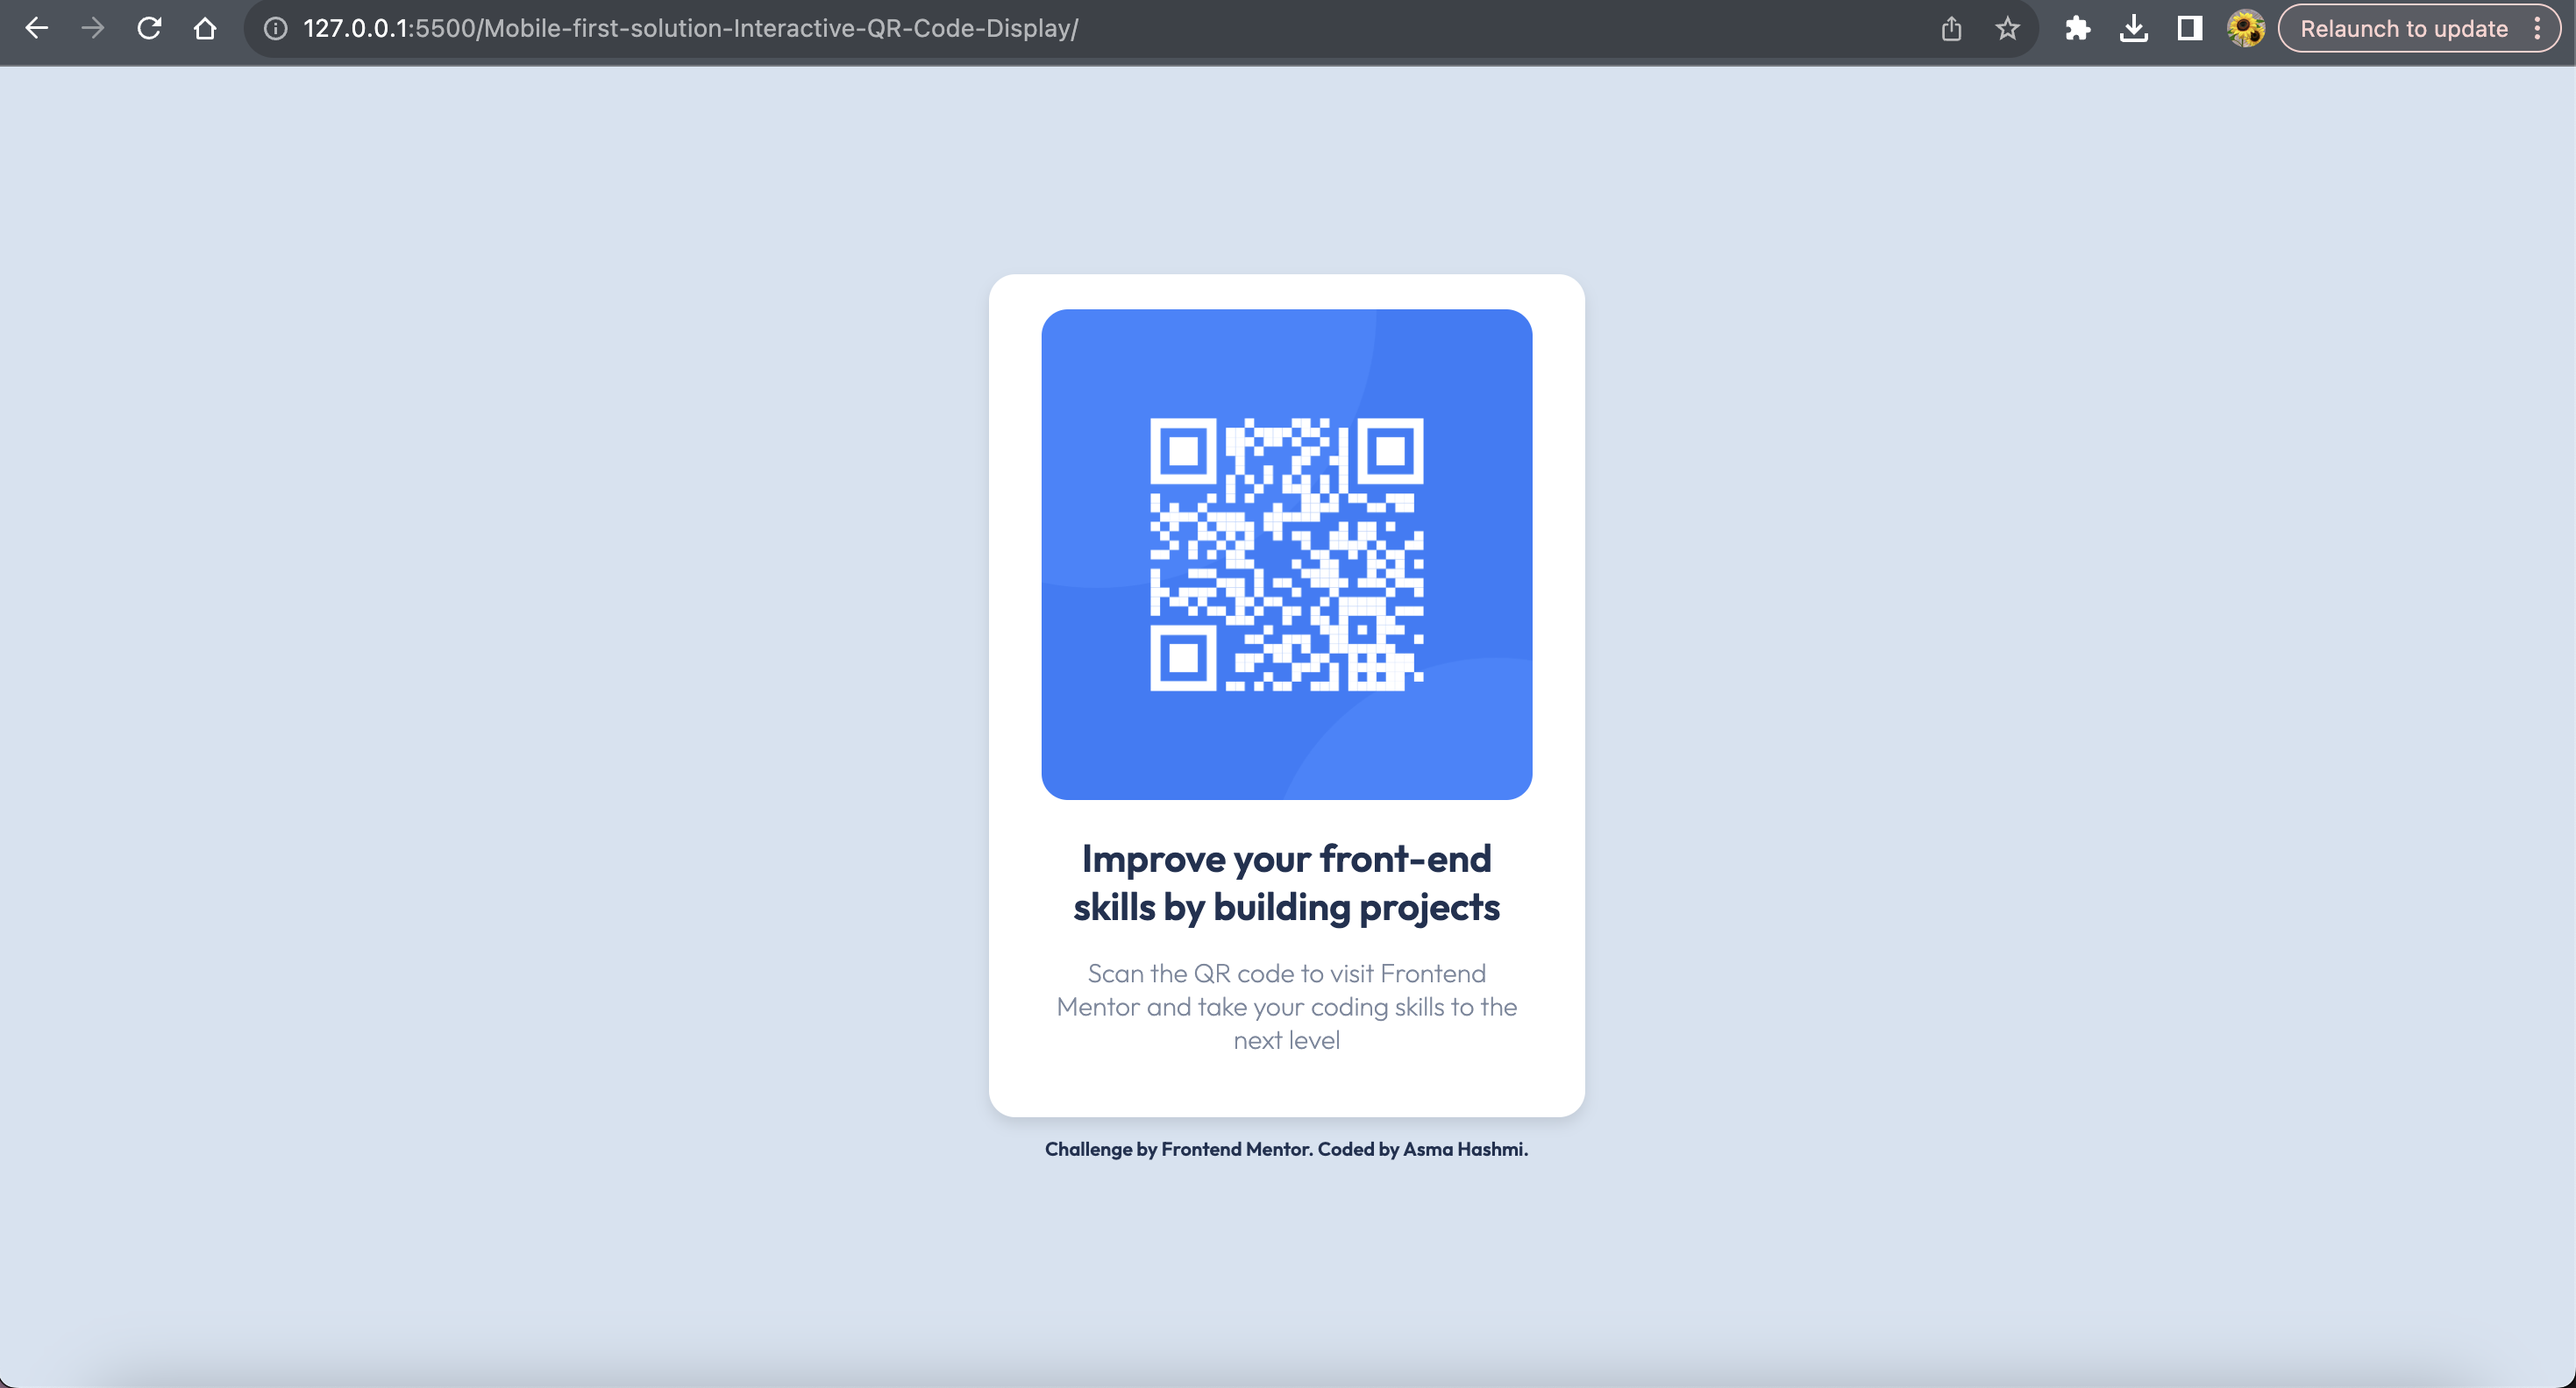
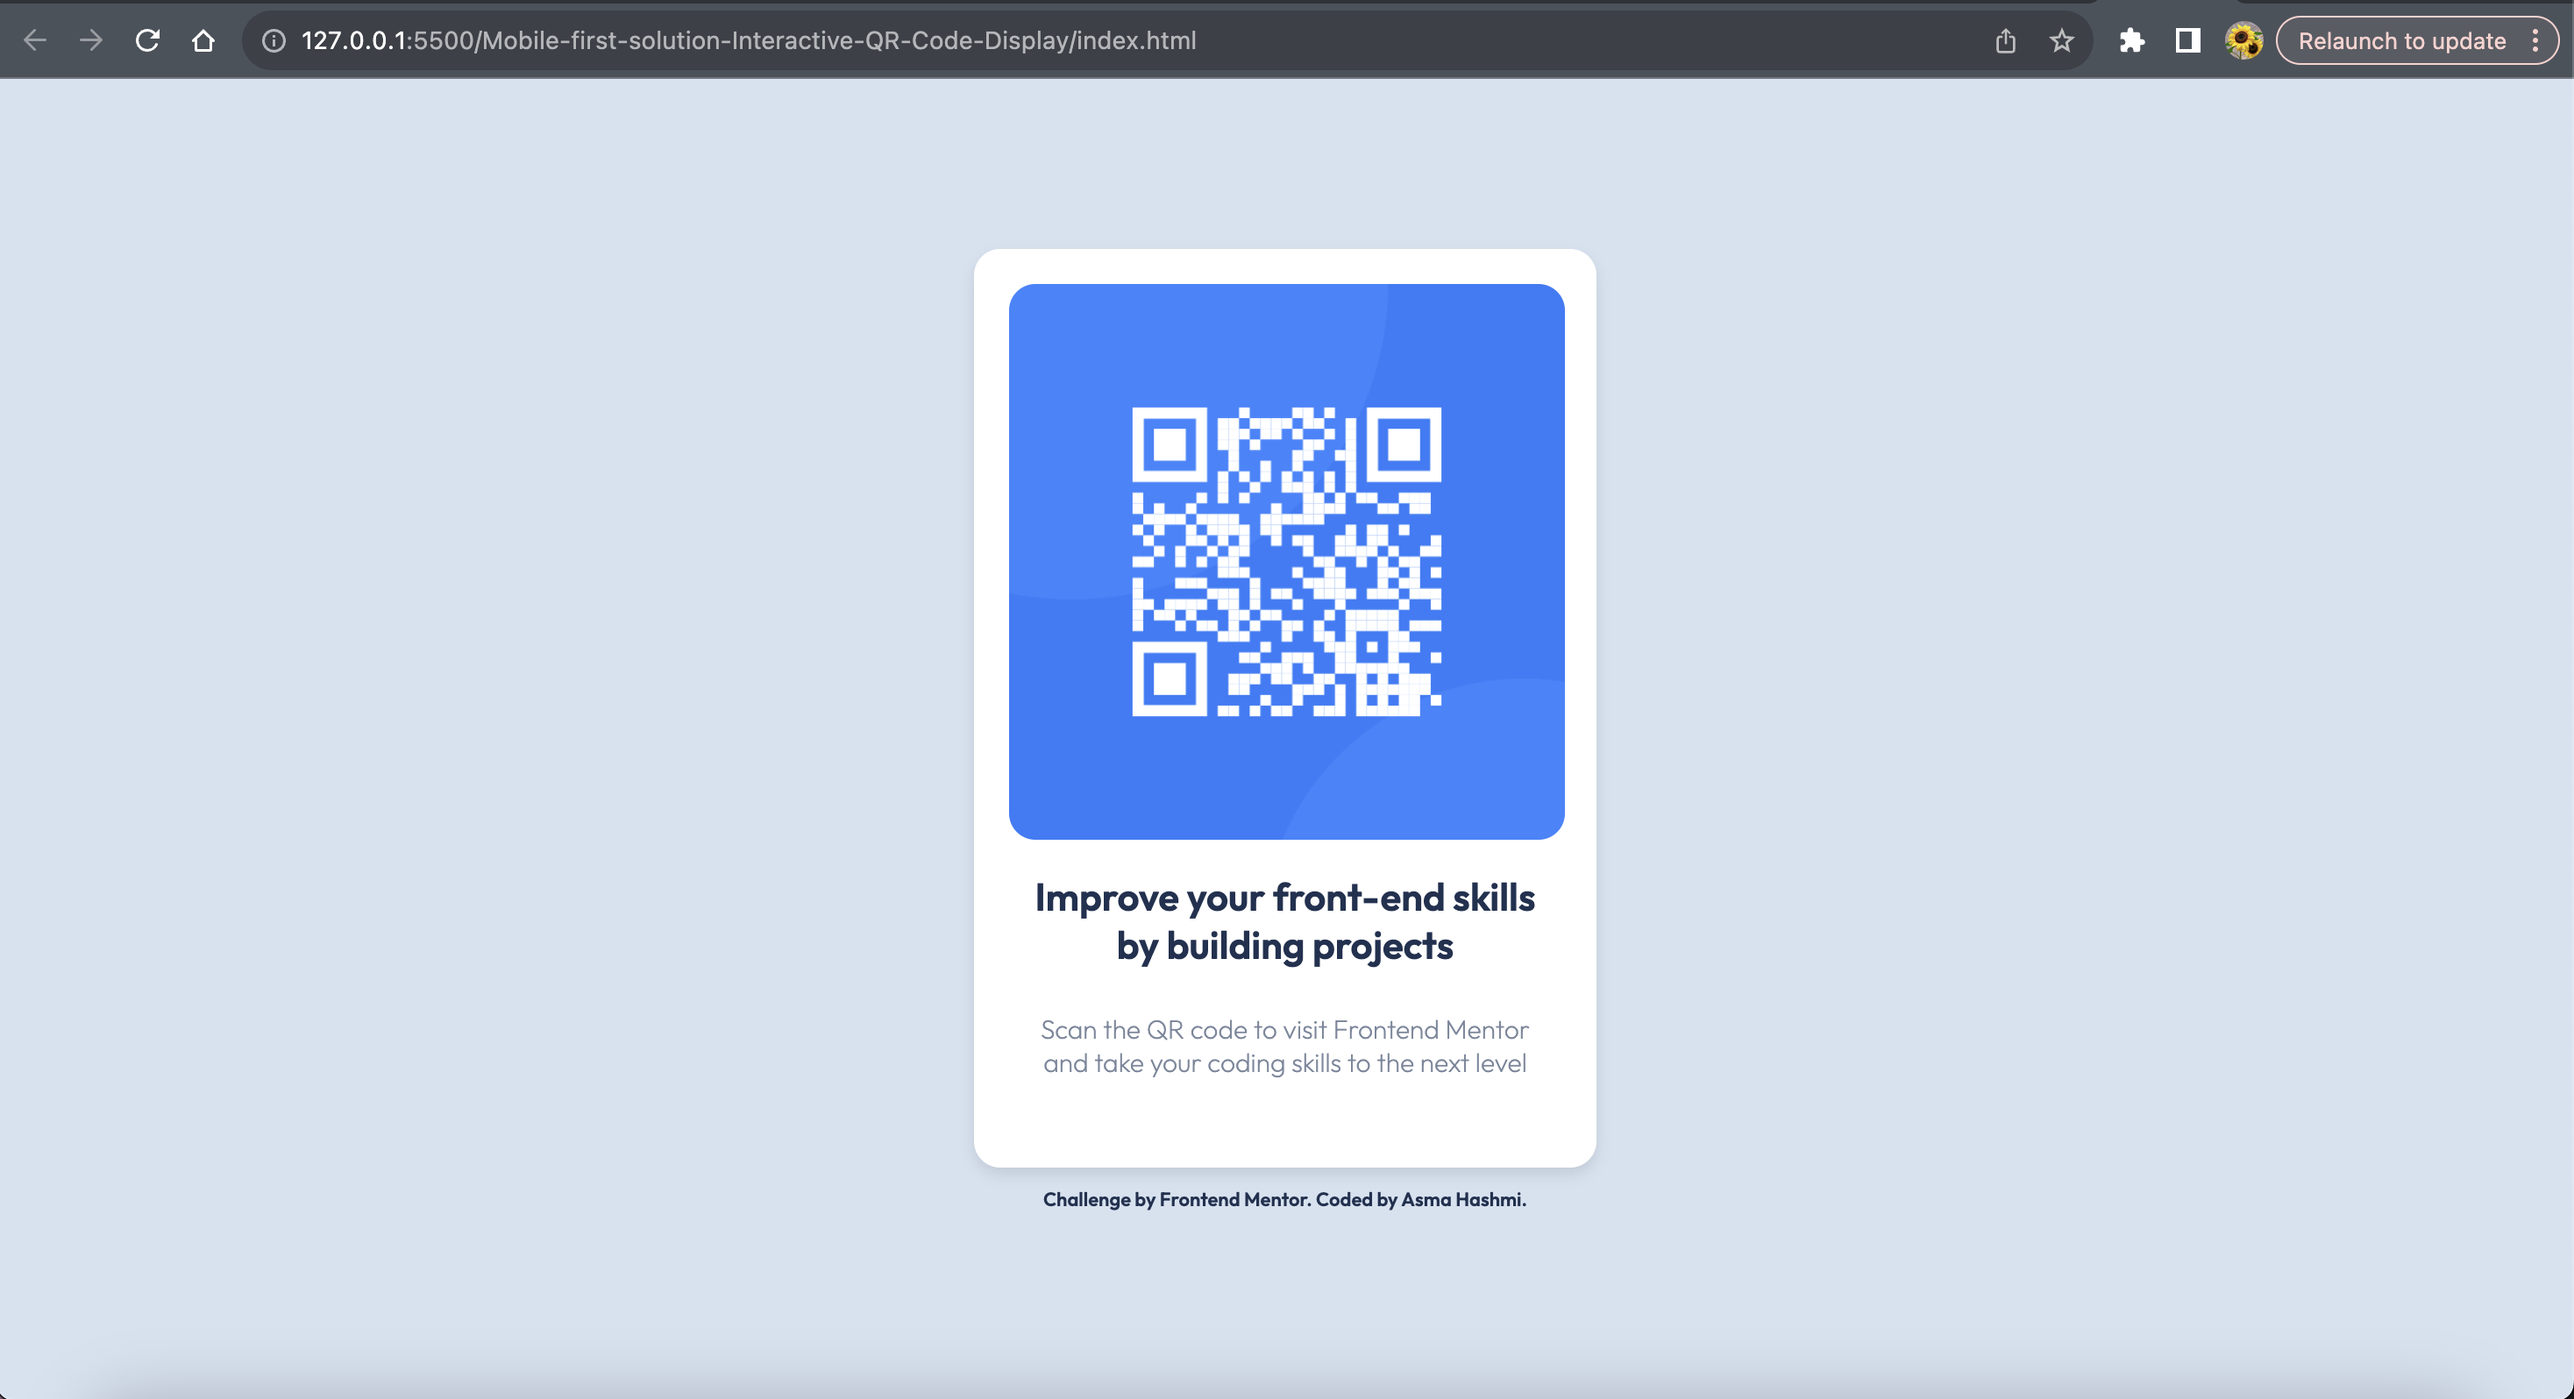
Modifying CSS for Card

diff --git a/index.html b/index.html
@@ -21,13 +21,14 @@
       box-shadow: 0 4px 8px rgba(0, 0, 0, 0.1);
       border-radius: 15px;
       padding: 20px;
-      width: 300px;
+      width: 315px;
+      height: 484px;
       text-align: center;
     }
     .card img {
       border-radius: 15px;
-      width: 280px;
-      height: 280px;
+      height: 317px;
+      position: relative;
     }
     .card h1 {
       font-size: 22px;
@@ -37,6 +38,7 @@
       font-weight: 600;
       padding-right: 10px;
       padding-left: 10px;
+      padding-bottom: 10px;
     }
     .card p {
       font-family: outfit;

diff --git a/README.md b/README.md
@@ -1,87 +1,21 @@
-# Frontend Mentor - QR code component
+# Frontend Mentor - QR code component solution
 
-![Design preview for the QR code component coding challenge](./design/desktop-preview.jpg)
+This is a solution to the [QR code component challenge on Frontend Mentor](https://www.frontendmentor.io/challenges/qr-code-component-iux_sIO_H). Frontend Mentor challenges help you improve your coding skills by building realistic projects. 
 
-## Welcome! 👋
+### Screenshots
 
-Thanks for checking out this front-end coding challenge.
+![](./images/desktop.png)
+![](./images/mobile.png)
 
-[Frontend Mentor](https://www.frontendmentor.io) challenges help you improve your coding skills by building realistic projects.
+### Links
+- Live Site URL: [https://mobile-first-solution-interactive-qr-code-display-3cj5xs6dz.vercel.app/]
 
-**To do this challenge, you need a basic understanding of HTML and CSS.**
+### Built with
 
-## The challenge
+- Semantic HTML5 markup
+- CSS custom properties
+- Flexbox
+- CSS Grid
+- Mobile-first workflow
+- [Styled Components](https://styled-components.com/) - For styles
 
-Your challenge is to build out this QR code component and get it looking as close to the design as possible.
-
-You can use any tools you like to help you complete the challenge. So if you've got something you'd like to practice, feel free to give it a go.
-
-Want some support on the challenge? [Join our community](https://www.frontendmentor.io/community) and ask questions in the **#help** channel.
-
-## Where to find everything
-
-Your task is to build out the project to the designs inside the `/design` folder. You will find both a mobile and a desktop version of the design. 
-
-The designs are in JPG static format. Using JPGs will mean that you'll need to use your best judgment for styles such as `font-size`, `padding` and `margin`. 
-
-If you would like the design files (we provide Sketch & Figma versions) to inspect the design in more detail, you can [subscribe as a PRO member](https://www.frontendmentor.io/pro).
-
-You will find all the required assets in the `/images` folder. The assets are already optimized.
-
-There is also a `style-guide.md` file containing the information you'll need, such as color palette and fonts.
-
-## Building your project
-
-Feel free to use any workflow that you feel comfortable with. Below is a suggested process, but do not feel like you need to follow these steps:
-
-1. Initialize your project as a public repository on [GitHub](https://github.com/). Creating a repo will make it easier to share your code with the community if you need help. If you're not sure how to do this, [have a read-through of this Try Git resource](https://try.github.io/).
-2. Configure your repository to publish your code to a web address. This will also be useful if you need some help during a challenge as you can share the URL for your project with your repo URL. There are a number of ways to do this, and we provide some recommendations below.
-3. Look through the designs to start planning out how you'll tackle the project. This step is crucial to help you think ahead for CSS classes to create reusable styles.
-4. Before adding any styles, structure your content with HTML. Writing your HTML first can help focus your attention on creating well-structured content.
-5. Write out the base styles for your project, including general content styles, such as `font-family` and `font-size`.
-6. Start adding styles to the top of the page and work down. Only move on to the next section once you're happy you've completed the area you're working on.
-
-## Deploying your project
-
-As mentioned above, there are many ways to host your project for free. Our recommended hosts are:
-
-- [GitHub Pages](https://pages.github.com/)
-- [Vercel](https://vercel.com/)
-- [Netlify](https://www.netlify.com/)
-
-You can host your site using one of these solutions or any of our other trusted providers. [Read more about our recommended and trusted hosts](https://medium.com/frontend-mentor/frontend-mentor-trusted-hosting-providers-bf000dfebe).
-
-## Create a custom `README.md`
-
-We strongly recommend overwriting this `README.md` with a custom one. We've provided a template inside the [`README-template.md`](./README-template.md) file in this starter code.
-
-The template provides a guide for what to add. A custom `README` will help you explain your project and reflect on your learnings. Please feel free to edit our template as much as you like.
-
-Once you've added your information to the template, delete this file and rename the `README-template.md` file to `README.md`. That will make it show up as your repository's README file.
-
-## Submitting your solution
-
-Submit your solution on the platform for the rest of the community to see. Follow our ["Complete guide to submitting solutions"](https://medium.com/frontend-mentor/a-complete-guide-to-submitting-solutions-on-frontend-mentor-ac6384162248) for tips on how to do this.
-
-Remember, if you're looking for feedback on your solution, be sure to ask questions when submitting it. The more specific and detailed you are with your questions, the higher the chance you'll get valuable feedback from the community.
-
-## Sharing your solution
-
-There are multiple places you can share your solution:
-
-1. Share your solution page in the **#finished-projects** channel of the [community](https://www.frontendmentor.io/community). 
-2. Tweet [@frontendmentor](https://twitter.com/frontendmentor) and mention **@frontendmentor**, including the repo and live URLs in the tweet. We'd love to take a look at what you've built and help share it around.
-3. Share your solution on other social channels like LinkedIn.
-4. Blog about your experience building your project. Writing about your workflow, technical choices, and talking through your code is a brilliant way to reinforce what you've learned. Great platforms to write on are [dev.to](https://dev.to/), [Hashnode](https://hashnode.com/), and [CodeNewbie](https://community.codenewbie.org/).
-
-We provide templates to help you share your solution once you've submitted it on the platform. Please do edit them and include specific questions when you're looking for feedback. 
-
-The more specific you are with your questions the more likely it is that another member of the community will give you feedback.
-
-## Got feedback for us?
-
-We love receiving feedback! We're always looking to improve our challenges and our platform. So if you have anything you'd like to mention, please email hi[at]frontendmentor[dot]io.
-
-This challenge is completely free. Please share it with anyone who will find it useful for practice.
-
-**Have fun building!** 🚀
